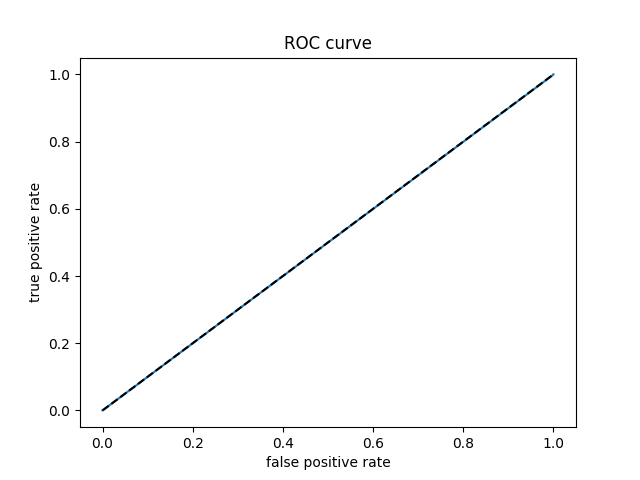
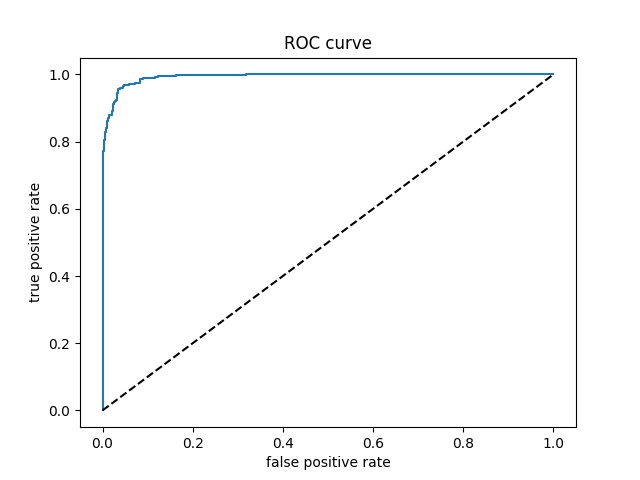
adapt classify vgg

diff --git a/classify.py b/classify.py
@@ -5,6 +5,7 @@ todo:
     implement post-regression activation functions
     fix classification for dnn
     WARNING This does not produce image output. For that, see acomputervision/larger_face.py
+    rename variables sensible - right now in the classify they are all called train stuff
 """
 
 import os
@@ -20,38 +21,63 @@ from sklearn.metrics import accuracy_score, roc_curve, roc_auc_score
 
 
 def classification(model_path):
+    # model = tf.keras.models.load_model(model_path)
+
+    # data_generator = ImageDataGenerator(preprocessing_function=preprocess_input)
+    # # generate data for test set of images
+    # test_generator = data_generator.flow_from_directory(
+    #     '/Users/kristofgalambos/Downloads/archive/test',
+    #     target_size=(178, 218),
+    #     batch_size=1,
+    #     class_mode='binary',
+    #     shuffle=False)
+    # # obtain predicted activation values for the last dense layer
+    # test_generator.reset()
+    # y_proba = np.array(model.predict_generator(test_generator, verbose=1, steps=1000)).flatten()
+    # # determine the maximum activation value for each sample
+    # # y_proba = np.array([x[0] for x in pred])  # 1 for male and 0 for female
+    # y_pred = np.array([round(x) for x in y_proba])
+    # predicted_class_indices = y_pred
+    # # label each predicted value to correct gender
+    # labels = (test_generator.class_indices)
+    # labels = dict((v, k) for k, v in labels.items())
+    # predictions = [labels[k] for k in predicted_class_indices]
+    # # format file names to simply male or female
+    # filenames = test_generator.filenames
+    # filenz = [0]
+    # for i in range(0, len(filenames)):
+    #     filenz.append(filenames[i].split('/')[0])
+    # filenz = filenz[1:]
+
+    IMG_HEIGHT = 218
+    IMG_WIDTH = 178
+    MAX_TEST_SIZE = 500
     model = tf.keras.models.load_model(model_path)
 
-    data_generator = ImageDataGenerator(preprocessing_function=preprocess_input)
-    # generate data for test set of images
-    test_generator = data_generator.flow_from_directory(
-        '/Users/kristofgalambos/Downloads/archive/test',
-        target_size=(178, 218),
-        batch_size=1,
-        class_mode='binary',
-        shuffle=False)
-    # obtain predicted activation values for the last dense layer
-    test_generator.reset()
-    y_proba = np.array(model.predict_generator(test_generator, verbose=1, steps=1000)).flatten()
-    # determine the maximum activation value for each sample
-    # y_proba = np.array([x[0] for x in pred])  # 1 for male and 0 for female
-    y_pred = np.array([round(x) for x in y_proba])
-    predicted_class_indices = y_pred
-    # label each predicted value to correct gender
-    labels = (test_generator.class_indices)
-    labels = dict((v, k) for k, v in labels.items())
-    predictions = [labels[k] for k in predicted_class_indices]
-    # format file names to simply male or female
-    filenames = test_generator.filenames
-    filenz = [0]
-    for i in range(0, len(filenames)):
-        filenz.append(filenames[i].split('/')[0])
-    filenz = filenz[1:]
+    data_path = '/Users/kristofgalambos/Downloads/archive/test'
+    male_filenames = [x for x in os.listdir(data_path + '/male/') if 'DS' not in x]
+    female_filenames = [x for x in os.listdir(data_path + '/female/') if 'DS' not in x]
+    train_males = np.array([cv2.imread(data_path + '/male/' + filename) for filename in male_filenames])
+    train_females = np.array([cv2.imread(data_path + '/female/' + filename) for filename in female_filenames])
+    train_males = np.array(
+        [cv2.resize(img, (IMG_HEIGHT, IMG_WIDTH)) for img in train_males])[:MAX_TEST_SIZE]
+    train_females = np.array(
+        [cv2.resize(img, (IMG_HEIGHT, IMG_WIDTH)) for img in train_females])[:MAX_TEST_SIZE]
+    X_train = np.concatenate([train_males, train_females])
+    y_male = np.array([0 for _ in range(len(train_males))])
+    y_female = np.array([1 for _ in range(len(train_females))])
+    y_train = np.concatenate([y_male, y_female]) * (-1) + 1
+    train_data, train_labels = shuffle(X_train, y_train)
 
-    shift = 0 # use different labellings for vgg
-    if 'cnn' not in model_path and 'dnn' not in model_path:
-        shift = 1
-    y_true = np.array([1-shift if x == 'female' else 0+shift for x in filenz])
+    y_proba = model.predict(train_data).flatten()
+    y_true = train_labels
+
+    y_pred = np.array([round(x) for x in y_proba])
+
+    # shift = 0 # use different labellings for vgg
+    # if 'cnn' not in model_path and 'dnn' not in model_path:
+    #     shift = 1
+    # y_true = np.array([1-shift if x == 'female' else 0+shift for x in filenz])
     print('accuracy_score:', accuracy_score(y_true, y_pred))
     print('auc score:', roc_auc_score(y_true, y_proba))
     fpr, tpr, thresholds = roc_curve(y_true, y_proba)
@@ -75,13 +101,13 @@ def classification(model_path):
     plt.plot(xref, yref, 'k--')
     plt.savefig('ROC_curve.png')
 
-    # determine the test set accuracy
-    match = []
-    for i in range(0, len(filenames)):
-        match.append(filenz[i] == predictions[i])
-    print('accuracy:', match.count(True) / len(filenames))
-    results = pd.DataFrame({"Filename": filenz, "Predictions": predictions})
-    results.to_csv("GenderID_test_results.csv", index=False)
+    # # determine the test set accuracy
+    # match = []
+    # for i in range(0, len(filenames)):
+    #     match.append(filenz[i] == predictions[i])
+    # print('accuracy:', match.count(True) / len(filenames))
+    # results = pd.DataFrame({"Filename": filenz, "Predictions": predictions})
+    # results.to_csv("GenderID_test_results.csv", index=False)
 
 
 def classification_dnn(model_path):
@@ -105,7 +131,7 @@ def classification_dnn(model_path):
     y_train = np.concatenate([y_male, y_female])
     train_data, train_labels = shuffle(X_train, y_train)
 
-    y_proba = model.predict(X_train).flatten()
+    y_proba = model.predict(train_data).flatten()
     y_true = train_labels
 
     y_pred = np.array([round(x) for x in y_proba])

diff --git a/train_model.py b/train_model.py
@@ -40,7 +40,10 @@ def train_vgg(data_path, model_path, epochs):
         batch_size=12,
         class_mode='binary')
 
-    model.fit_generator(train_generator, epochs=epochs)
+    history = model.fit_generator(train_generator, epochs=epochs)
+    history = model.fit(train_data, train_labels, batch_size=12, epochs=epochs, verbose=1, validation_split=0.2)
+    with open('history_VGG.pkl', 'wb') as file:
+        pickle.dump(history, file)
     model.save(model_path)
     print('model saved')
 
